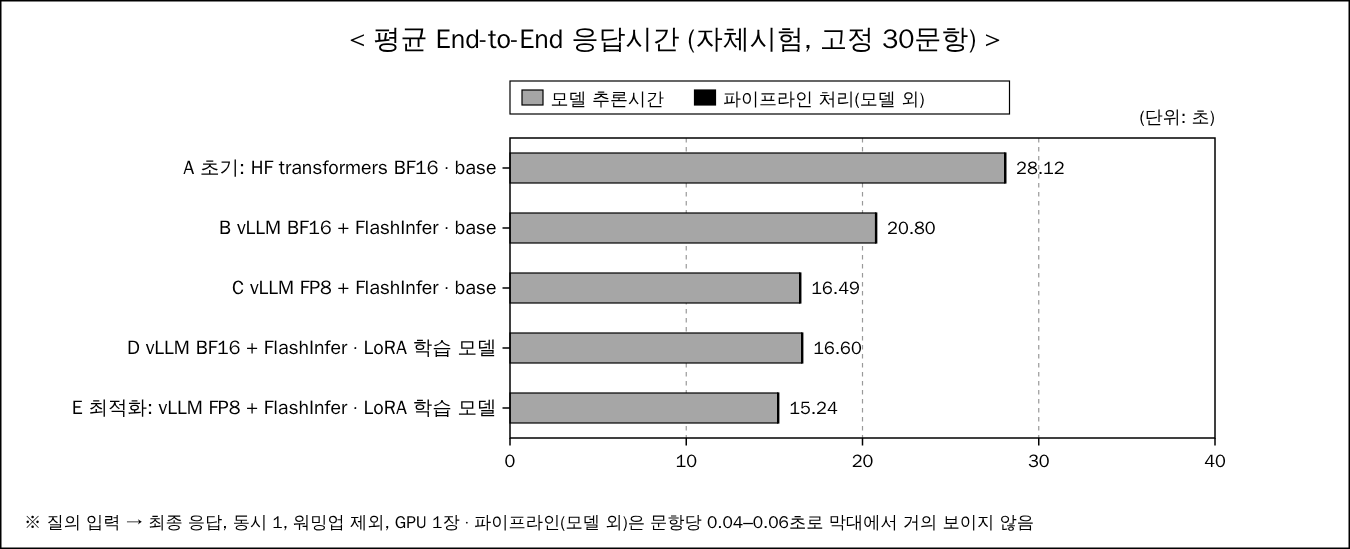
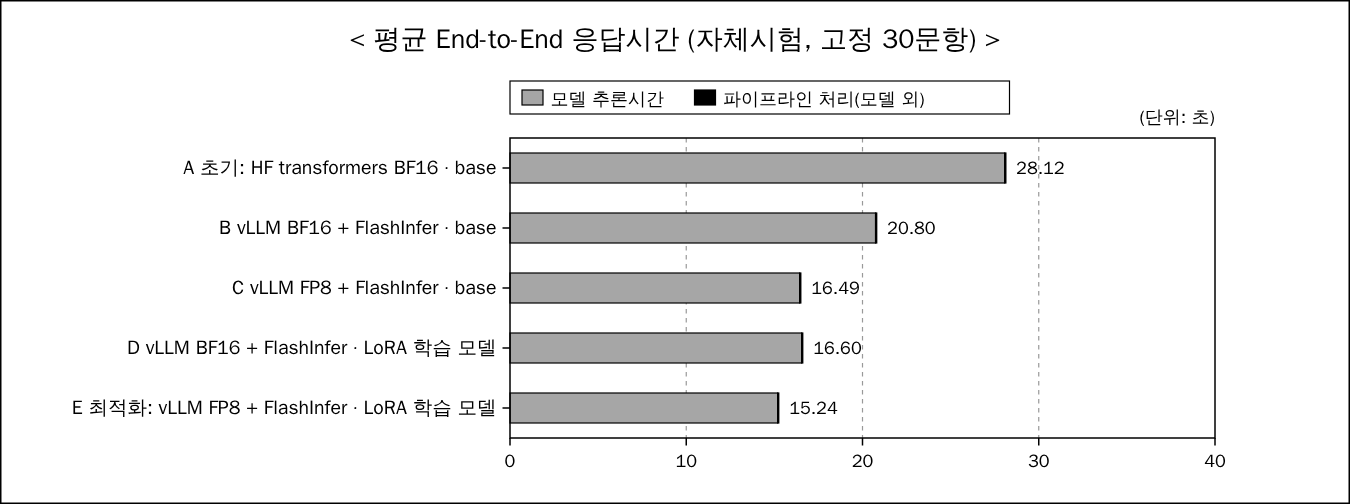
final_report: remove footnote lines from figures
Claude-Session: https://claude.ai/code/session_01ELCeX4nHRTGFzuSDdQr1cs

Changed region(s): [[0.0311, 0.0298, 0.9022, 0.9821]]

diff --git a/final_report/tools/aggregate.py b/final_report/tools/aggregate.py
@@ -268,7 +268,7 @@ def hbar_svg(path, title, subtitle, items, unit, xmax=None, ref=None, ref_label=
     W, left, right, rh = 900, 340, 90, 40
     top = 92 if legend else 72
     ph = rh * len(rows)
-    H = top + ph + 74
+    H = top + ph + 44
     vmax = xmax or max((sum(v) if stacked else v) for _, v in rows) * 1.12
     step = nice_step(vmax)
     vmax = step * (int(vmax / step - 1e-9) + 1)
@@ -317,7 +317,6 @@ def hbar_svg(path, title, subtitle, items, unit, xmax=None, ref=None, ref_label=
             o.append(f'<rect x="{cx}" y="{top - 32}" width="14" height="10" fill="{[S1, S2][j]}" stroke="{INK}" stroke-width="0.8"/>'
                      f'<text x="{cx + 19}" y="{top - 22}" font-size="12" fill="{INK}">{esc(name)}</text>')
             cx += sizes[j]
-    o.append(f'<text x="16" y="{H - 14}" font-size="11.5" fill="{INK}">※ {esc(subtitle)}</text>')
     o.append("</svg>")
     path.write_text("\n".join(o), encoding="utf-8")
 
